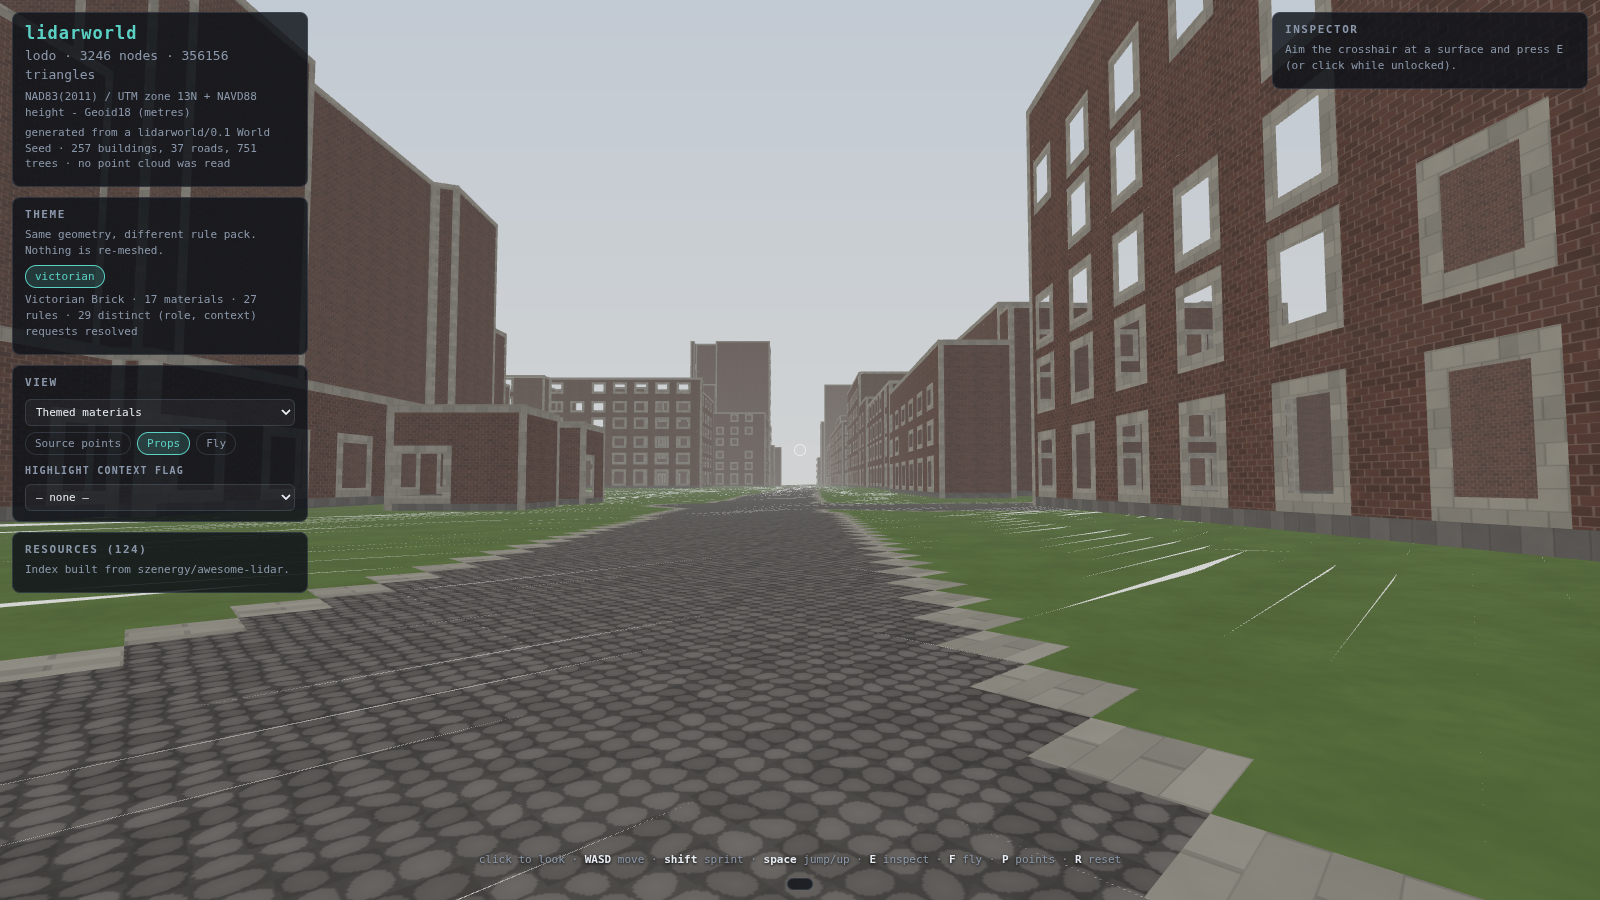
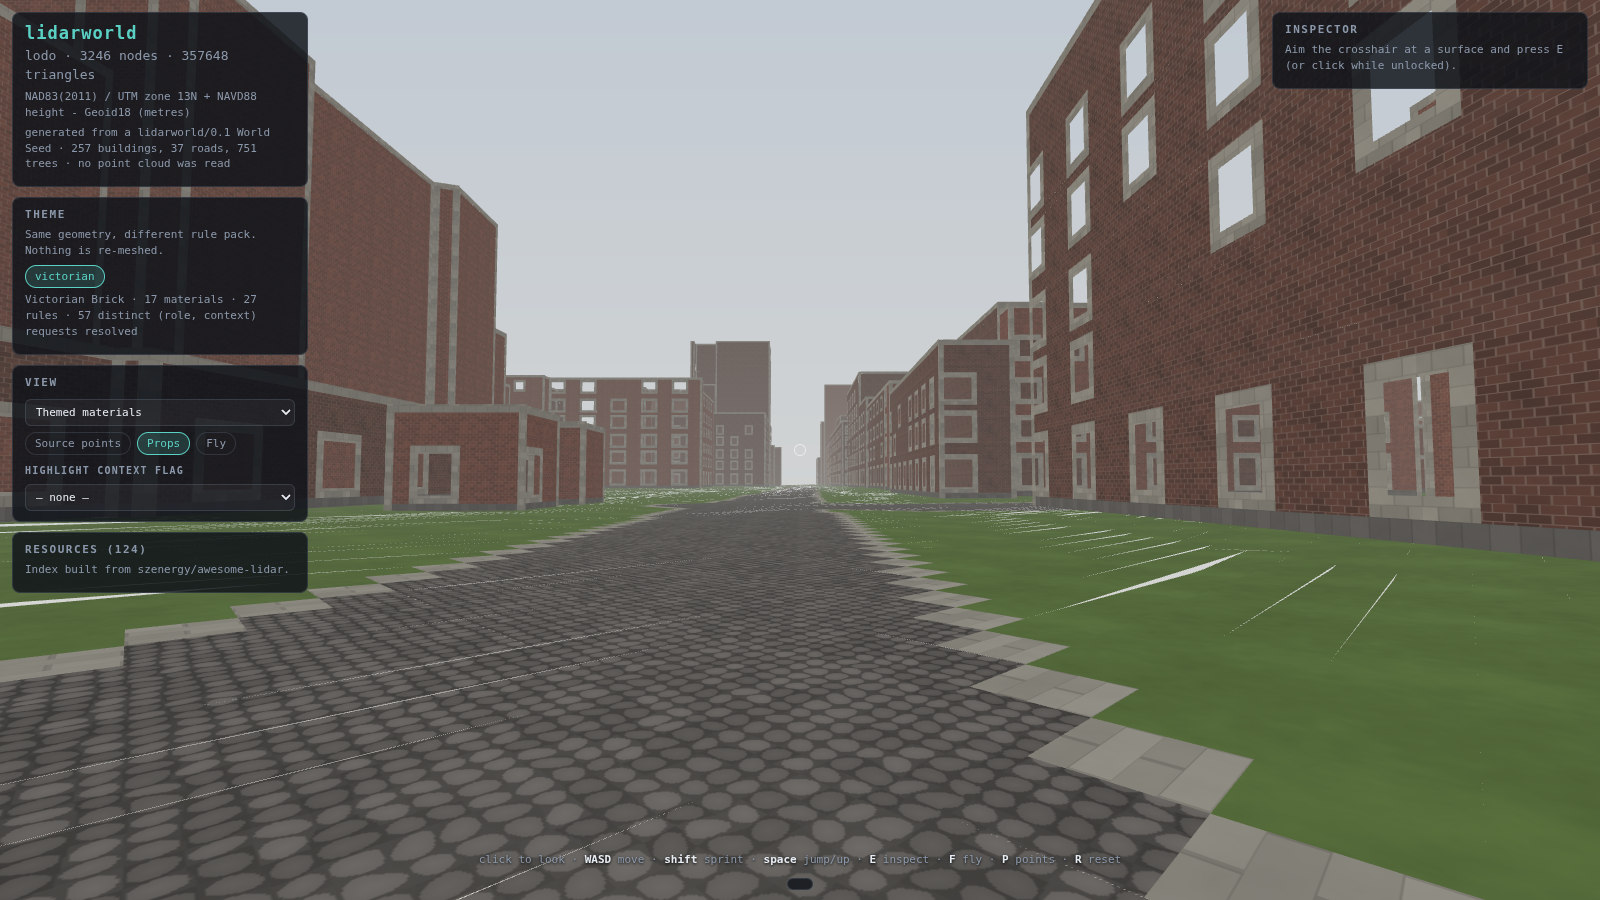
Give buildings distinct frontages instead of one continuous brick wall
Every frontage in the block resolved to the same weathered brick, and the cause
was a wrong claim rather than a taste decision.

`build_solid` flags every cell SPARSE_EVIDENCE. That is true of a wall the
compiler inferred from thin returns. It is the wrong claim about a wall the
generator invented from a footprint: nothing was measured sparsely there,
nothing was measured at all. OCCLUDED already carries that honestly.

The cost was visible. The victorian pack maps SPARSE_EVIDENCE to weathered
brick at priority 1, above the default stock brick at 0, so all 2,614 walls
took the same material and the quoin, cornice and plinth rules had nothing to
sit against.

Clearing the flag and assigning a frontage family per building -- 55% stock,
32% weathered, 13% stone-fronted, deterministic on the footprint so a place
keeps its character across regenerations -- takes the theme from 29 distinct
(role, context) requests to 57. The street now has different brick tones and
stone-fronted buildings between them rather than reading as one wall.

diff --git a/src/lidarworld/world/generate.py b/src/lidarworld/world/generate.py
@@ -184,6 +184,15 @@ def expand(seed: dict, *, tile: float = 0.5, terrain_cell: float = 1.0,
                    "epistemic": "generated"}))
         node_slots.append(bid)
 
+        # An architectural family per building. LoDo is a brick warehouse
+        # district so brick is right, but a street where every frontage is the
+        # *same* brick reads as one continuous wall -- which is exactly what it
+        # looked like. Real terraces vary: stock brick, weathered stock, and
+        # the occasional stone-fronted building.
+        #
+        # Deterministic on the footprint, so a place keeps its character across
+        # regenerations rather than reshuffling every run.
+        family = _family(ring, index)
         surfaces = extrude_stage.walls_from_footprint(ring, base, top,
                                                       start_id=walls_made)
         _mark_party_walls(surfaces, ring, neighbours, index)
@@ -193,6 +202,7 @@ def expand(seed: dict, *, tile: float = 0.5, terrain_cell: float = 1.0,
             lat = lattice_stage.build_solid(patch, width, height, cell=tile,
                                             ground_z=base)
             _fenestrate(lat, patch, building, index)
+            _restate_evidence(lat, family)
             sid = f"{bid}.wall.{patch.id:05d}"
             world.add(Node(
                 id=sid, role=patch.role, semantic="building", kind="surface",
@@ -403,3 +413,47 @@ def _mark_party_walls(surfaces, ring: np.ndarray, neighbours, index: int,
             if point_in_polygon(sample, other_ring[:, :2])[0]:
                 patch.attrs["party_wall"] = True
                 break
+
+
+#: Frontage families, and how often each appears on a street. Weights are the
+#: rough mix of a brick warehouse district: mostly stock brick, a good amount
+#: weathered, a few stone-fronted civic or bank buildings.
+FAMILIES = (("stock", 0.55), ("weathered", 0.32), ("stone", 0.13))
+
+
+def _family(ring: np.ndarray, index: int) -> str:
+    """Pick a frontage family for one building, stably."""
+    key = abs(hash((round(float(ring[:, 0].mean()), 1),
+                    round(float(ring[:, 1].mean()), 1), index))) % 1000 / 1000.0
+    running = 0.0
+    for name, weight in FAMILIES:
+        running += weight
+        if key < running:
+            return name
+    return FAMILIES[-1][0]
+
+
+def _restate_evidence(lattice, family: str) -> None:
+    """Say what a generated wall actually is, so the theme can differentiate.
+
+    `build_solid` flags every cell SPARSE_EVIDENCE and OCCLUDED, which is true
+    of a wall the compiler *inferred from thin returns*. It is the wrong claim
+    about a wall the generator *invented from a footprint*: nothing was
+    measured sparsely here, nothing was measured at all. OCCLUDED alone carries
+    that honestly.
+
+    It also had a visible cost. The victorian pack maps SPARSE_EVIDENCE to
+    weathered brick at priority 1, above the default stock brick at 0, so every
+    frontage in the block resolved to the same grubby brick and the quoin,
+    cornice and plinth rules had nothing to sit against. Clearing the flag lets
+    the articulation show, and re-applying it only for the weathered family
+    turns an accident into a choice.
+    """
+    context = lattice.context
+    context &= ~np.uint32(Ctx.SPARSE_EVIDENCE)
+    if family == "weathered":
+        context |= np.uint32(Ctx.SPARSE_EVIDENCE)
+    elif family == "stone":
+        # Stone-fronted buildings read as dressed stone across the frontage,
+        # which the pack already has a material for.
+        context |= np.uint32(Ctx.SHELTERED)
